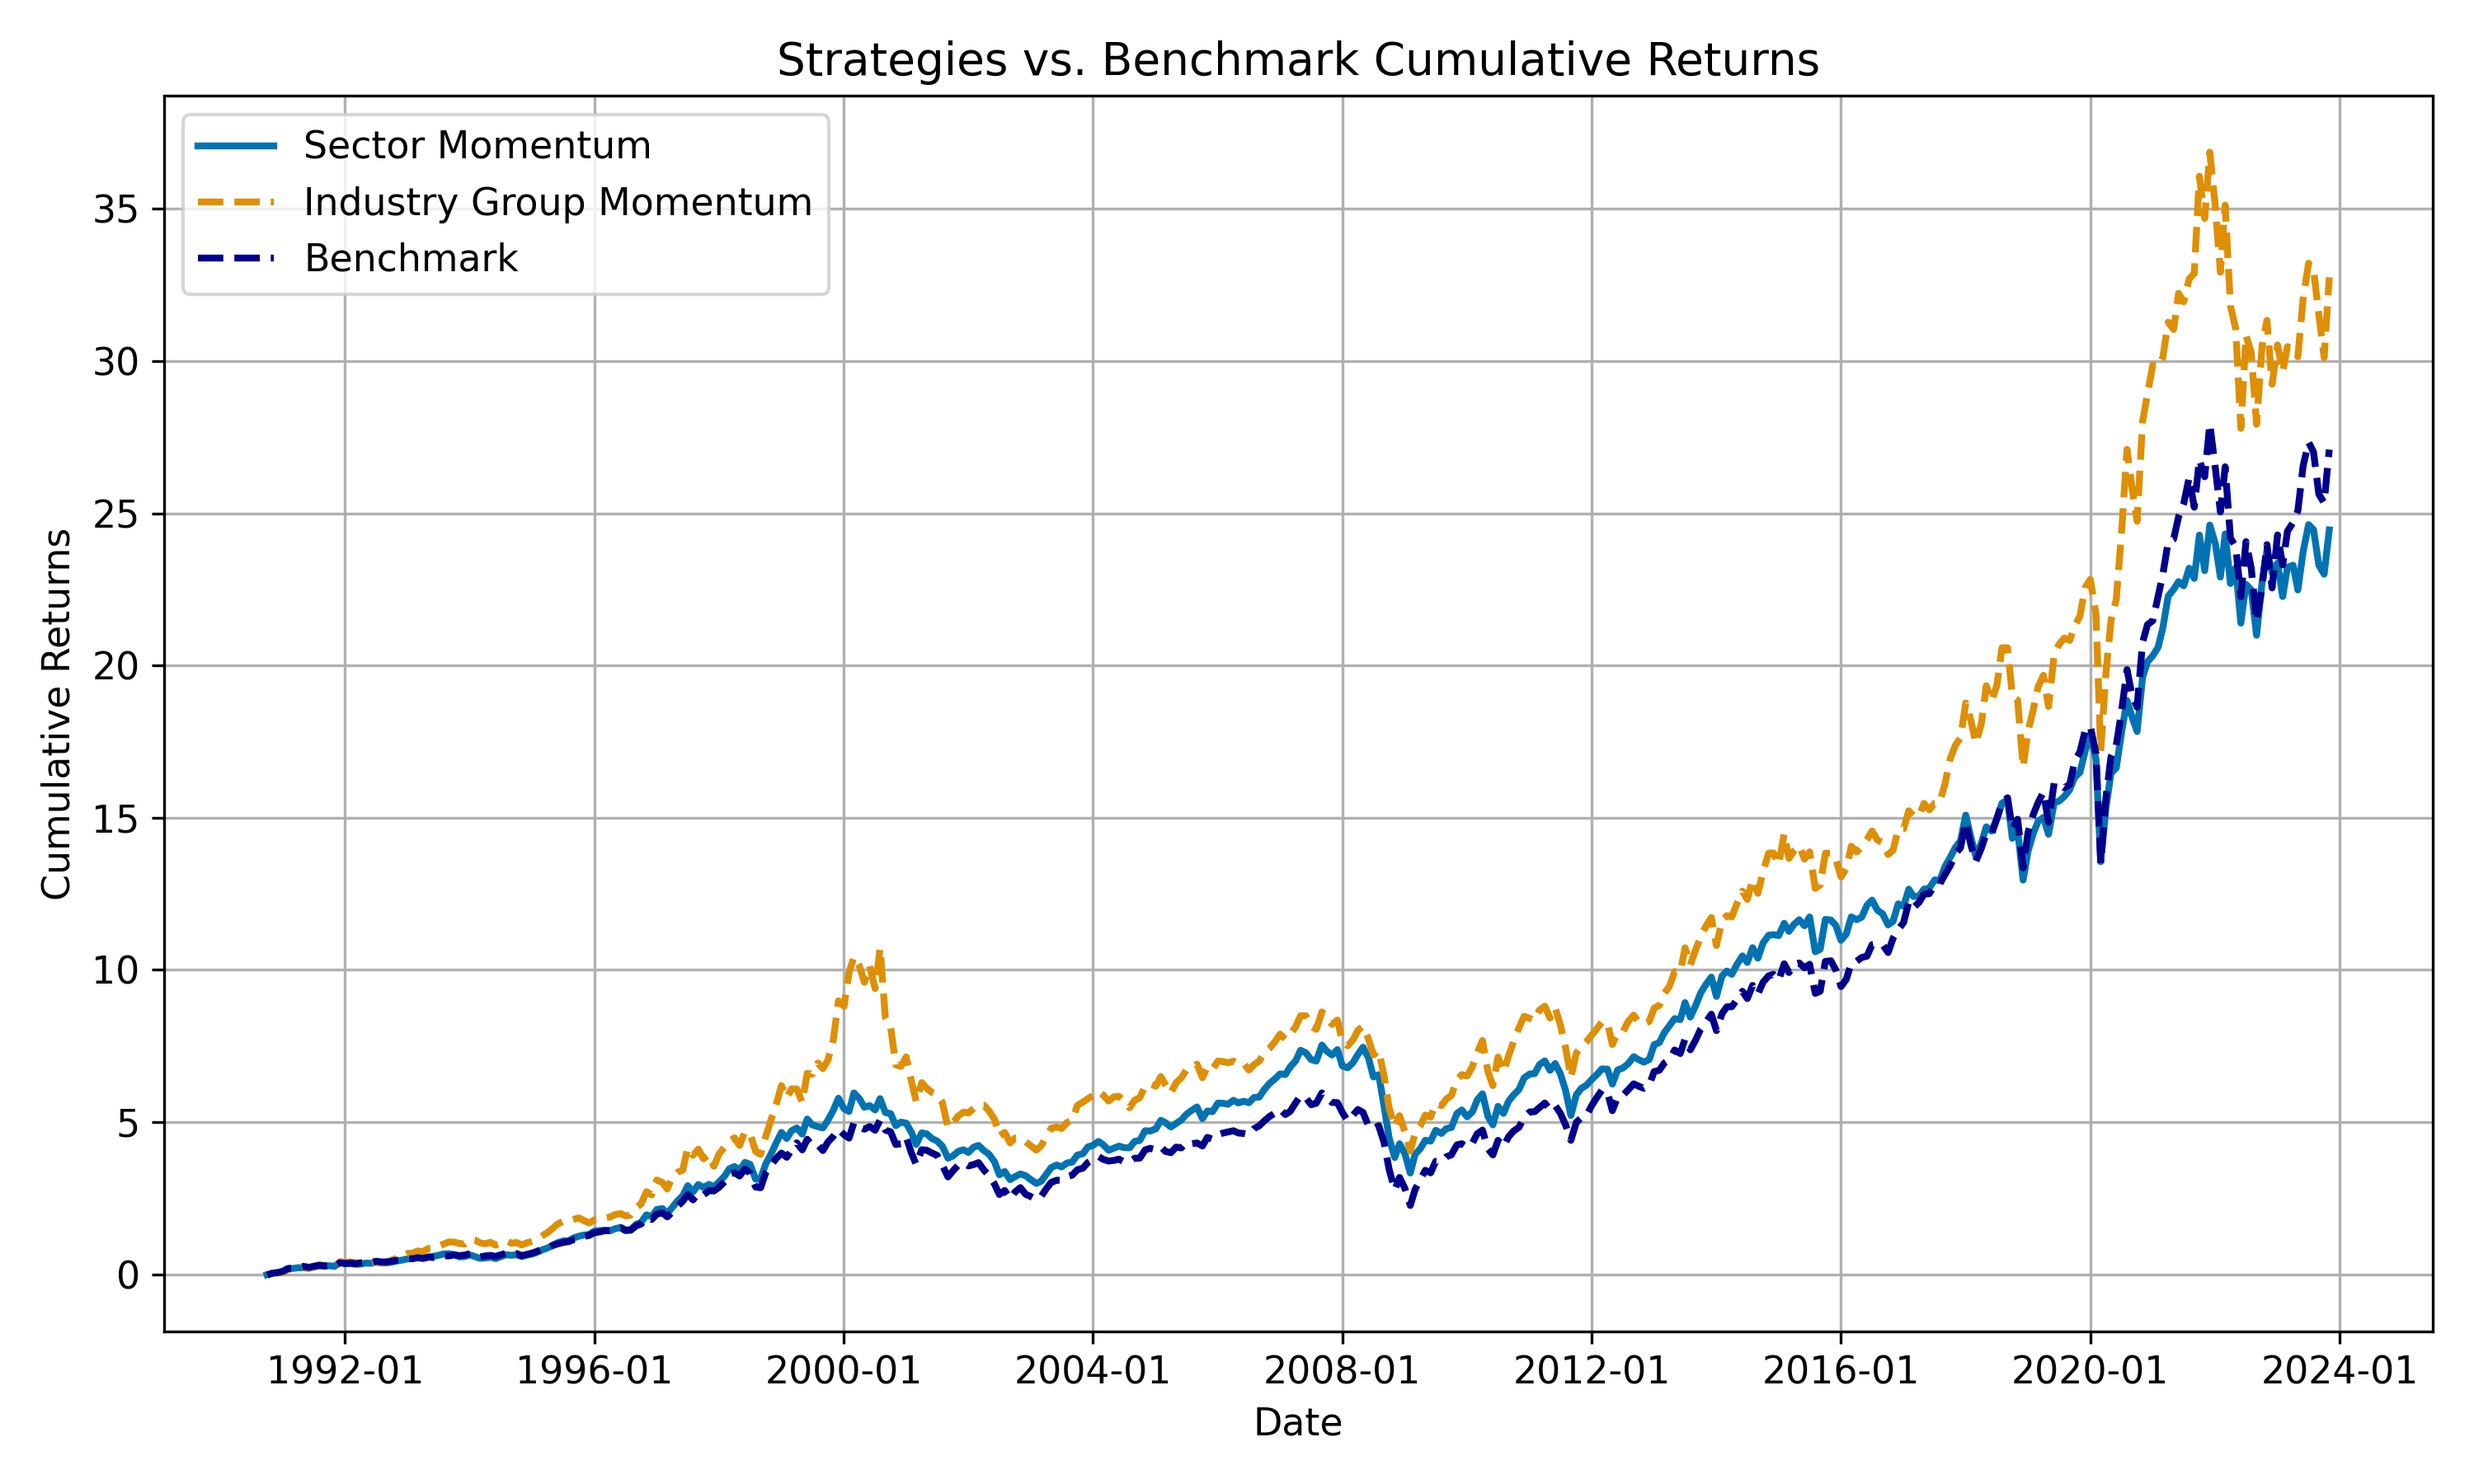
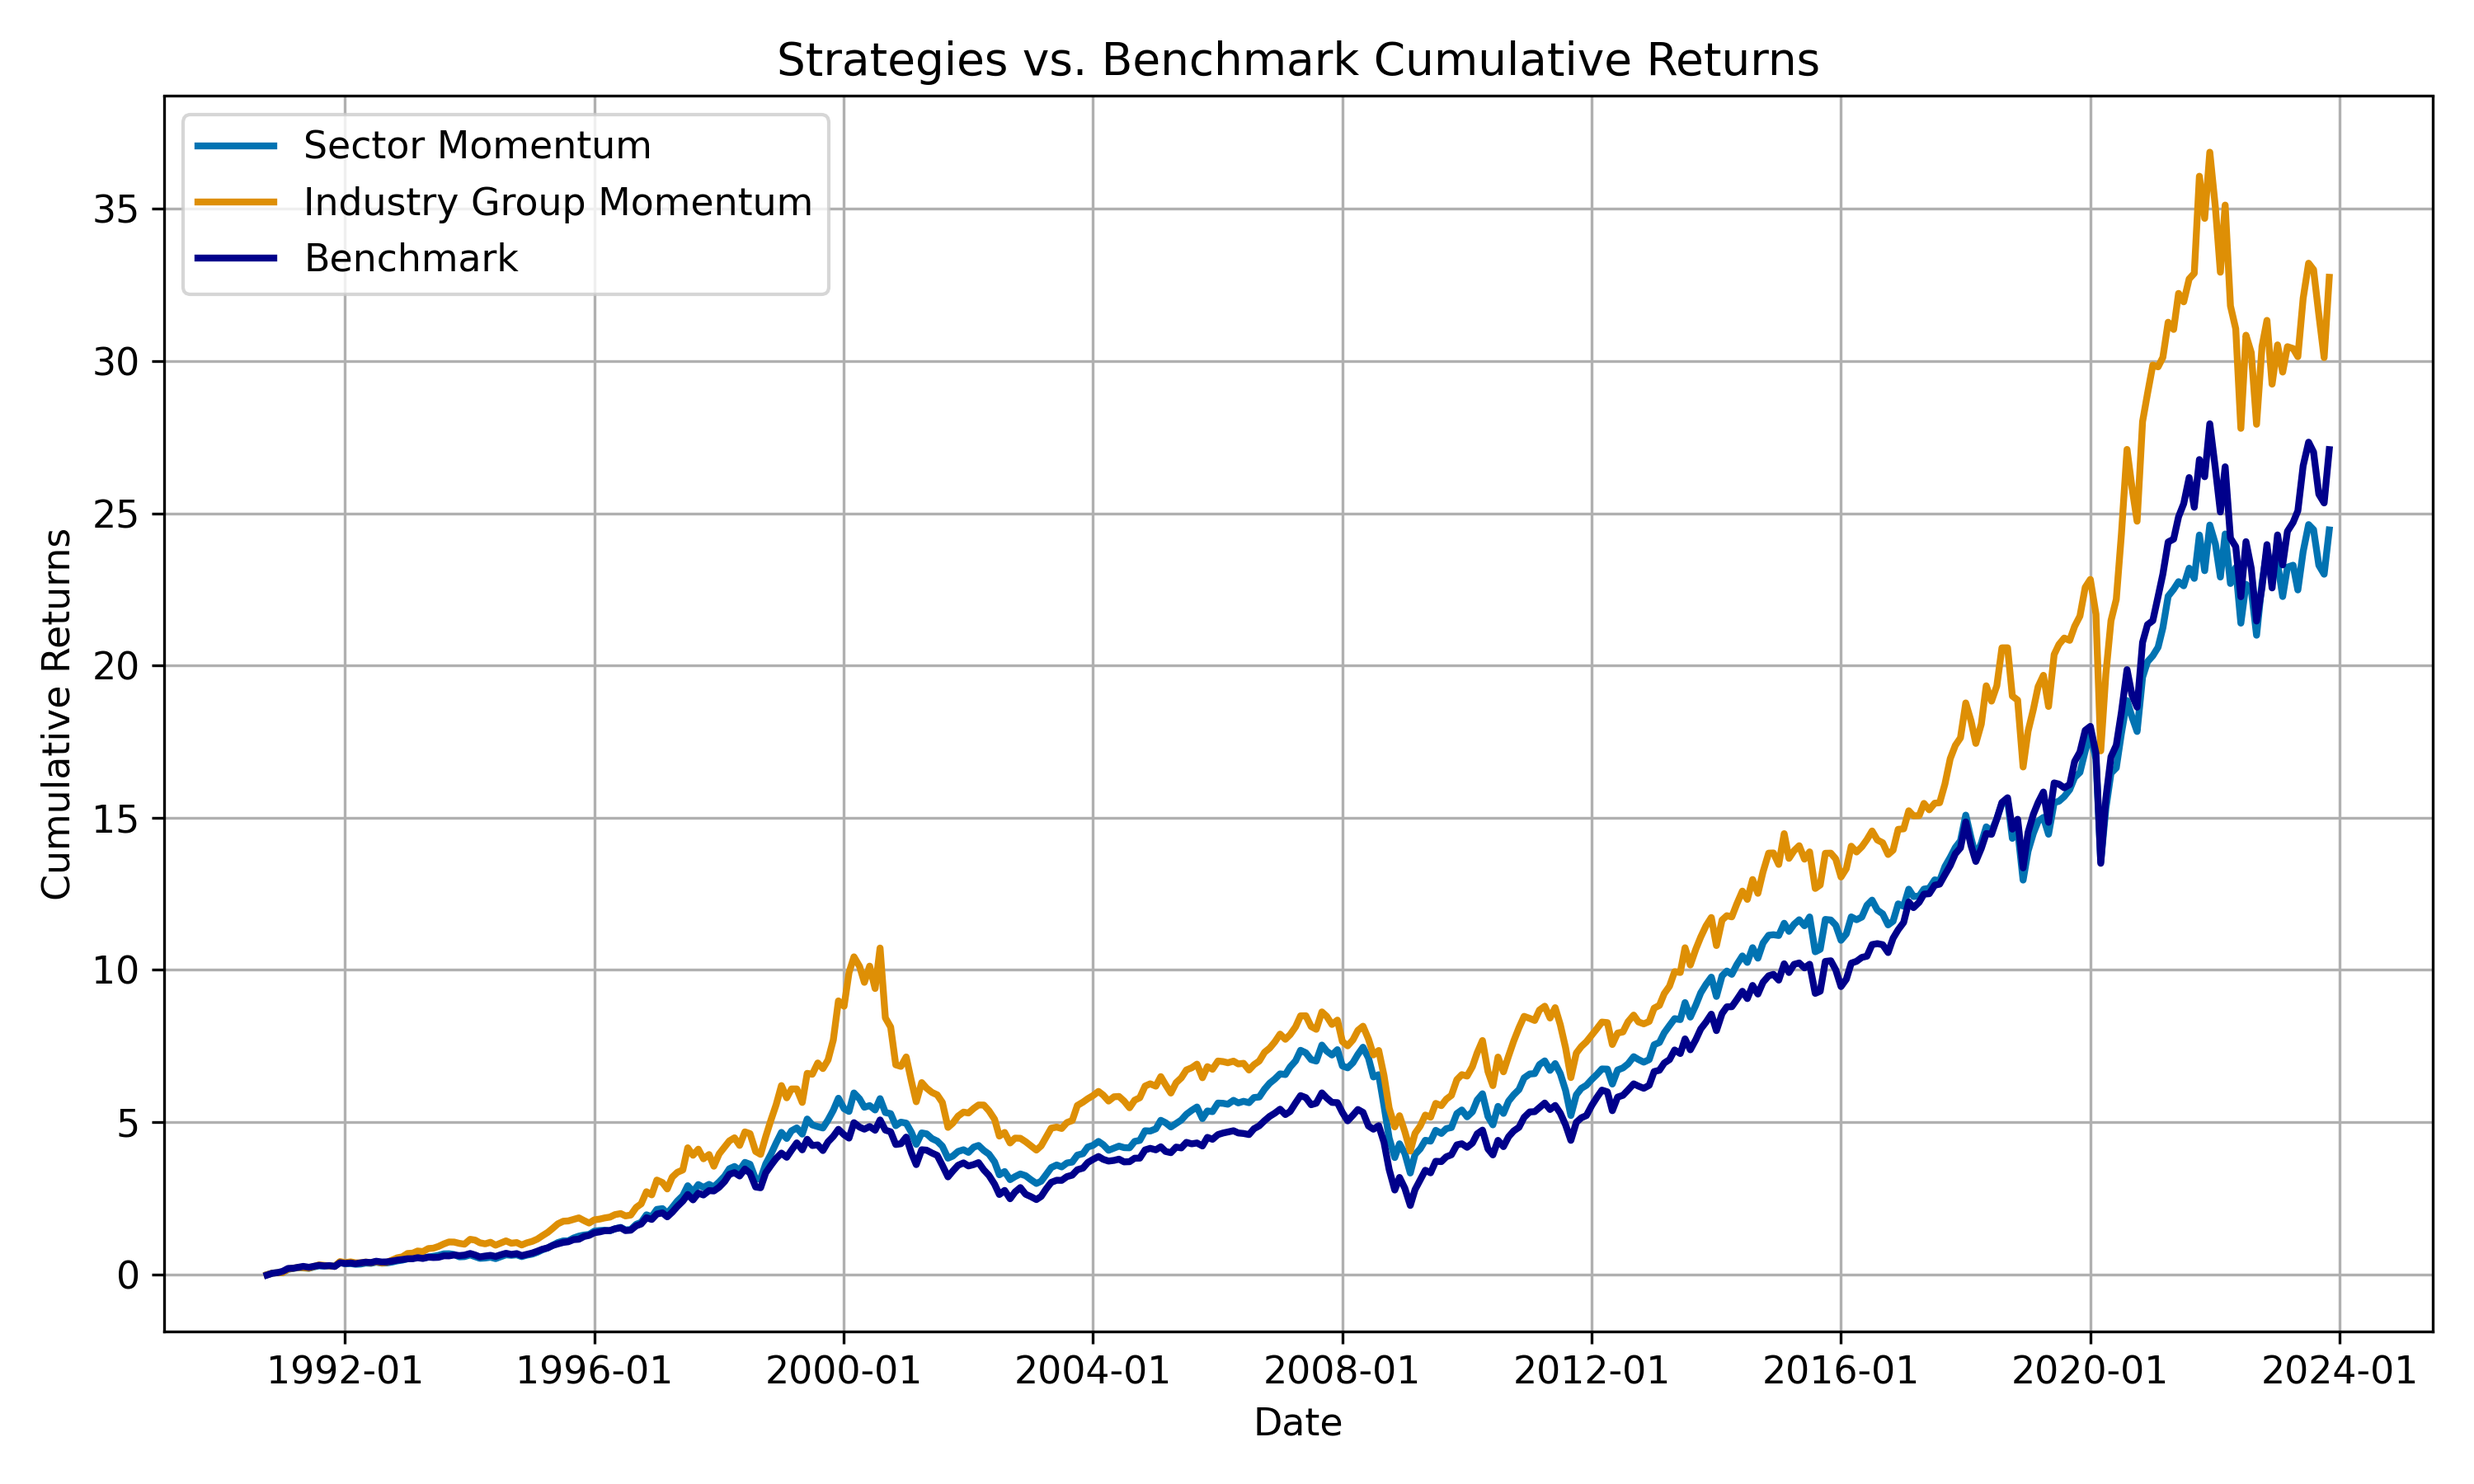
solid lines

diff --git a/src/visualization/visualize_results.py b/src/visualization/visualize_results.py
@@ -79,11 +79,11 @@ class Visualizer:
         if strategy_returns_lists_2 is not None:
             for i, returns in enumerate(strategy_returns_lists_2):
                 cumulative_returns = np.cumprod(1 + returns[start_month:]) - 1
-                ax.plot(dates[start_month:], cumulative_returns, label=labels_2[i], color=self.palette[(len(strategy_returns_lists) + i) % len(self.palette)], linestyle='--', linewidth=self.line_width)
+                ax.plot(dates[start_month:], cumulative_returns, label=labels_2[i], color=self.palette[(len(strategy_returns_lists) + i) % len(self.palette)], linestyle='-', linewidth=self.line_width)
 
         # Plot the benchmark return series
         cumulative_benchmark_returns = np.cumprod(1 + benchmark_returns[start_month:].squeeze()) - 1
-        ax.plot(dates[start_month:], cumulative_benchmark_returns, label='Benchmark', color='darkblue', linestyle='--', linewidth=self.line_width)
+        ax.plot(dates[start_month:], cumulative_benchmark_returns, label='Benchmark', color='darkblue', linestyle='-', linewidth=self.line_width)
 
         # Add labels, title, and legend
         ax.set_xlabel('Date')
